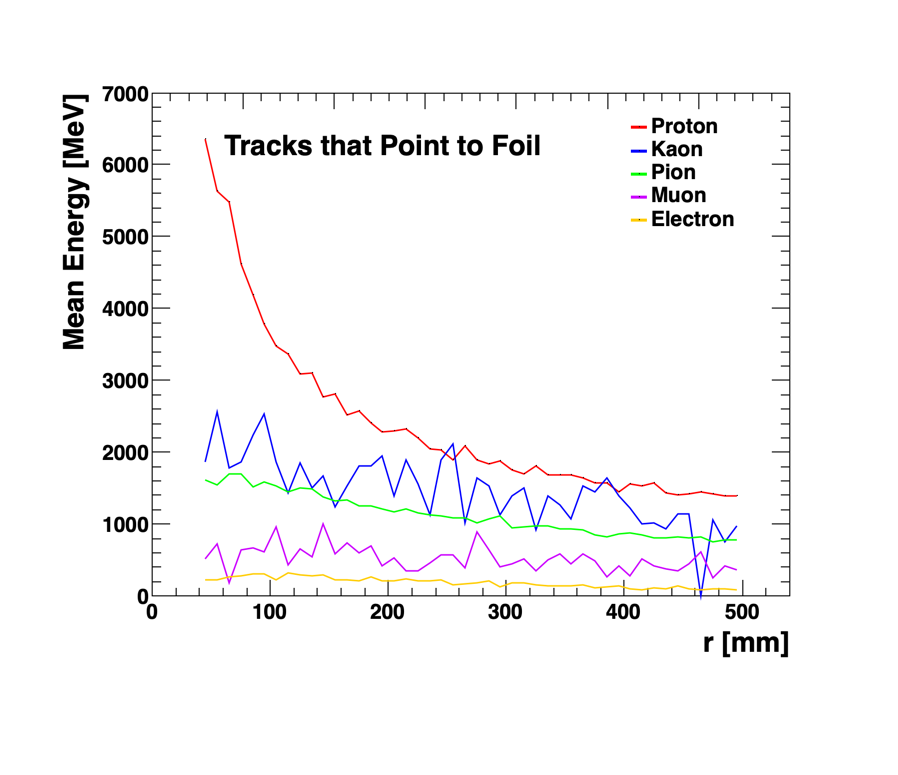
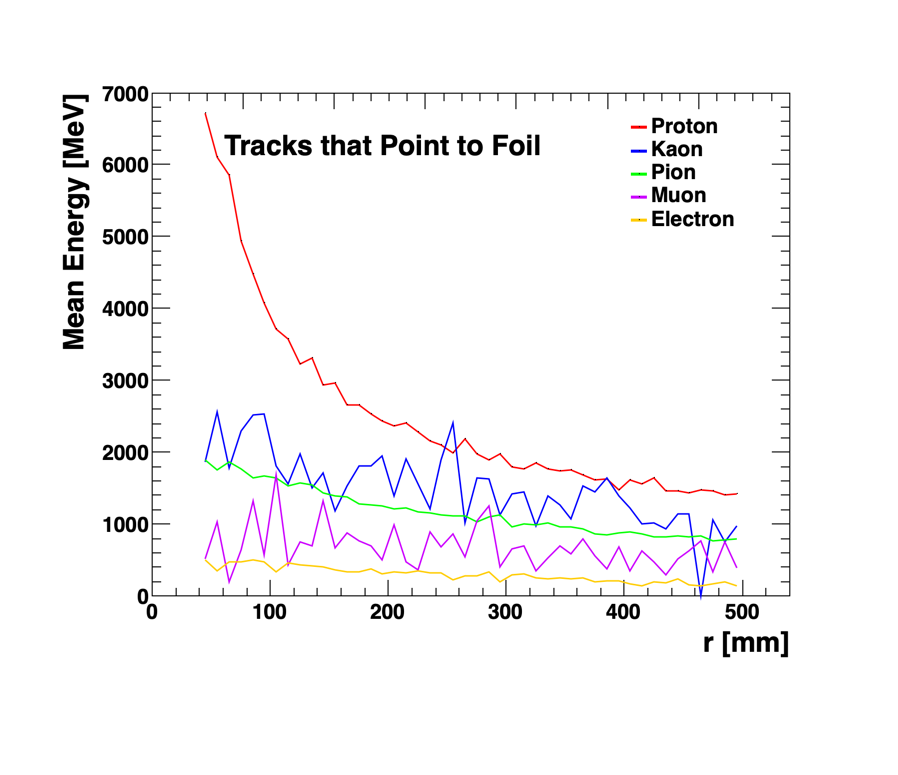
trace back: inside foil + pipe

diff --git a/root/VDtoIC.C b/root/VDtoIC.C
@@ -72,8 +72,10 @@ bool TraceCheck(float x, float y, float px, float py, float pz){
     float x1 = x - px*1000/pz;
     float y1 = y - py*1000/pz;
 
+    float r1 = std::sqrt(x1*x1 + y1*y1);
+
     // IC (foil) geometry: 70mm(H) * 70mm(W) * 0.004*0.0625*25.4(mm)(L) 
-    if ( std::abs( x1 ) < 35 && std::abs( y1 ) < 35) return true;
+    if ( std::abs( x1 ) < 35 && std::abs( y1 ) < 35 && r1 < 38.1 ) return true;
 
     return false;
 }
@@ -173,10 +175,12 @@ void VDtoIC(){
         // 1. All particles detected
         h_scatter->Fill(radius);
         // 2. Only particles traced back to IC
-        if ( TraceCheck( X, Y, P_x, P_y, P_z ) ) h_scatterT->Fill(radius); 
-
-        // <Graph> summing up energies
-        SumEnergy( ID, radius, P_x, P_y, P_z );
+        if ( TraceCheck( X, Y, P_x, P_y, P_z ) ){
+            h_scatterT->Fill(radius);  
+        
+            // <Graph> summing up energies
+            SumEnergy( ID, radius, P_x, P_y, P_z );
+        } 
     }
     // -------------------------------- Event looping - end -------------------------------
 
